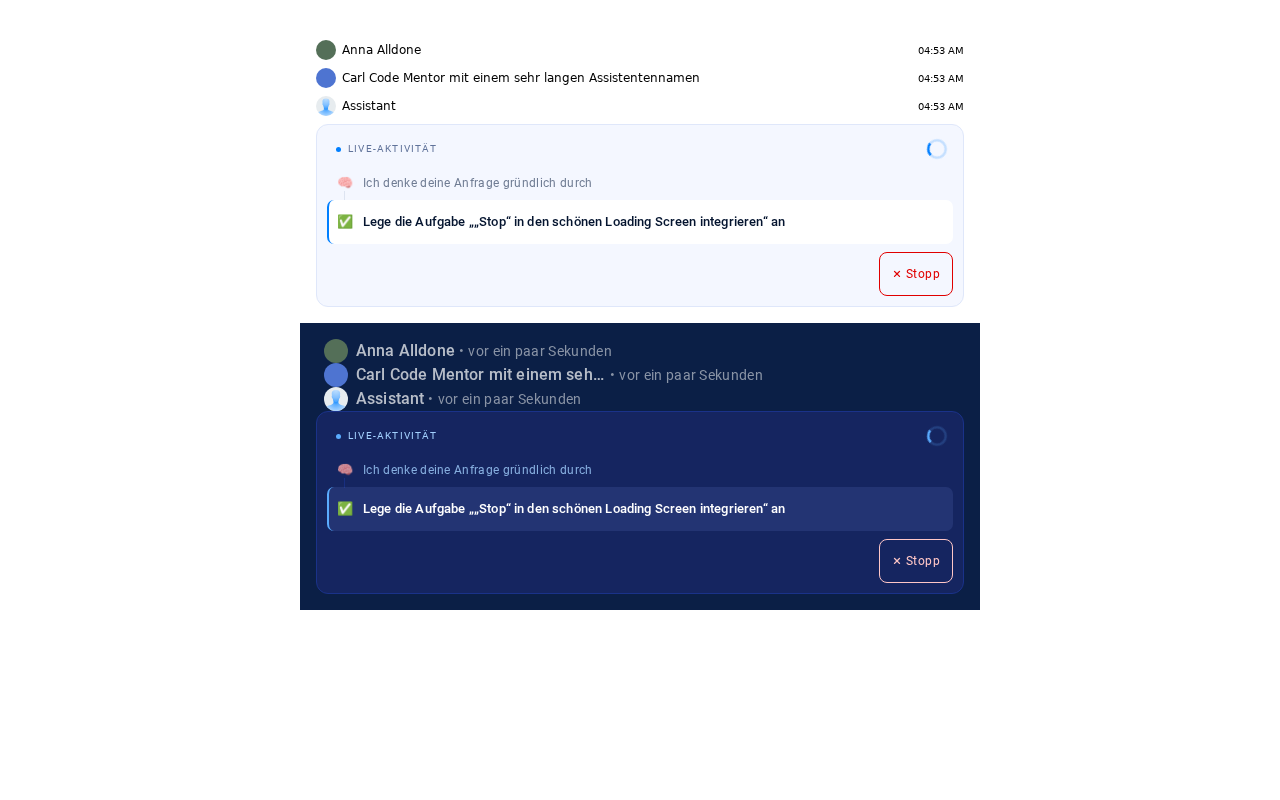
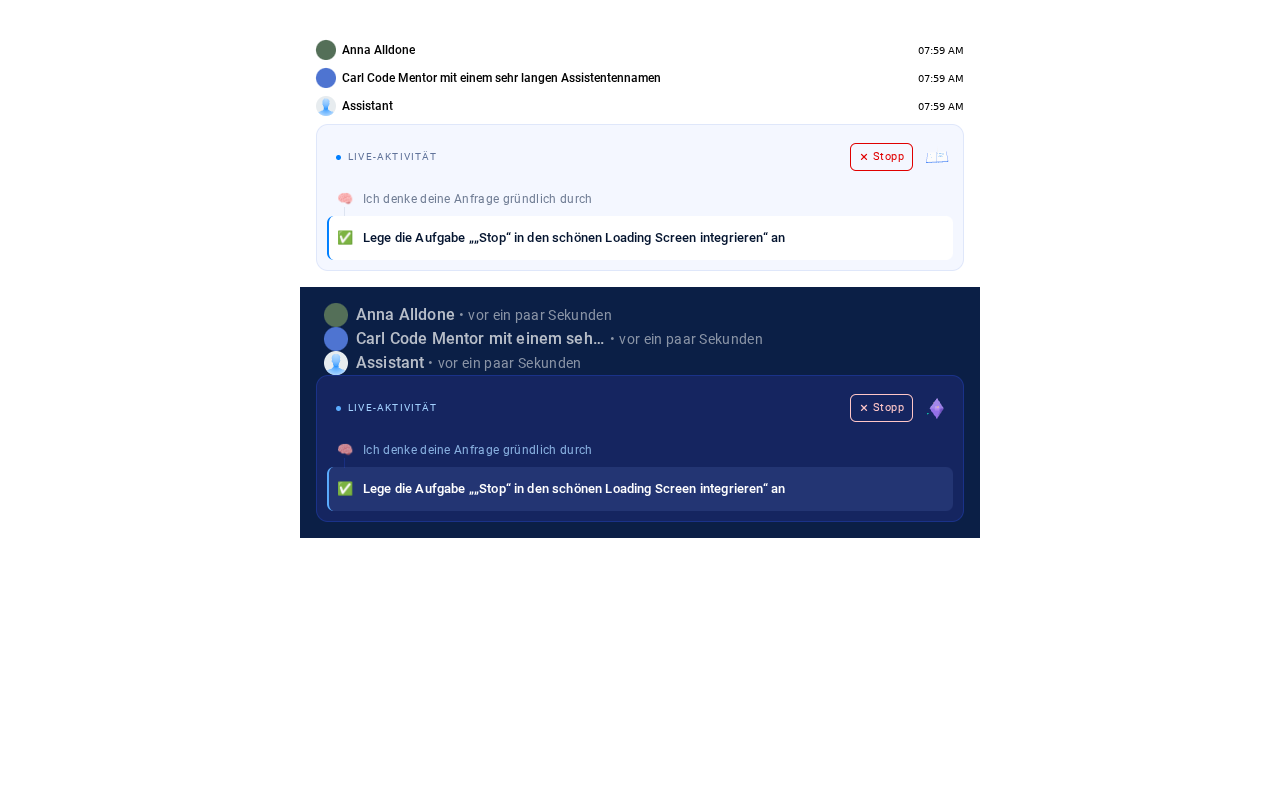
Move live activity Stop into compact header (AT-2734)

diff --git a/browser-tests/at2728/run.js b/browser-tests/at2728/run.js
@@ -6,6 +6,38 @@ const { execFileSync } = require('node:child_process')
 
 const root = path.resolve(__dirname, '../..')
 const output = path.join(__dirname, '.build')
+const reducedMotion = process.argv.includes('--animated') ? 'no-preference' : 'reduce'
+
+async function checkHeader(card, button) {
+    const header = await card.getByTestId('assistant-progress-header').boundingBox()
+    const title = await card.getByTestId('assistant-progress-title').boundingBox()
+    const actions = await card.getByTestId('assistant-progress-header-actions').boundingBox()
+    const animation = await card.getByTestId('assistant-progress-animation').boundingBox()
+    const target = await button.boundingBox()
+    const outline = await button.getByTestId('stop-assistant-run-content').boundingBox()
+    const trail = await card.getByTestId('assistant-progress-trail').boundingBox()
+    if (!(await button.isDisabled())) {
+        assert.equal(await button.evaluate(node => node.tabIndex), 0, 'Stop remains keyboard focusable')
+    }
+    assert(title.width > 100, 'German heading has visible glyphs and realistic font metrics')
+    const labelWidth = await button.evaluate(node => {
+        const range = document.createRange()
+        range.selectNodeContents(node.querySelector('[data-testid="stop-assistant-run-content"]').lastElementChild)
+        return range.getBoundingClientRect().width
+    })
+    assert(labelWidth > 20, 'Stop label is rendered with usable fonts')
+    assert(target.height >= 44 && target.width >= 44, 'touch target is at least 44px')
+    assert(outline.height === 28, 'visible Stop outline is compact')
+    assert(target.x + target.width <= animation.x, 'Stop is immediately left of the animation')
+    assert(Math.abs(target.y + target.height / 2 - animation.y - animation.height / 2) <= 1, 'controls aligned')
+    assert(target.y >= header.y && target.y + target.height <= header.y + header.height, 'Stop is in header')
+    assert(
+        title.x + title.width <= actions.x || title.y + title.height <= actions.y,
+        'title and controls do not overlap, including when the pending label wraps the header'
+    )
+    assert(header.y + header.height <= trail.y, 'header does not overlap activity steps')
+    assert.equal(await card.getByTestId('assistant-progress-header').getByRole('button').count(), 1)
+}
 
 async function main() {
     execFileSync(
@@ -49,9 +81,11 @@ async function main() {
     let browser
     try {
         const { chromium } = require(process.env.PLAYWRIGHT_MODULE || 'playwright')
-        browser = await chromium.launch({ args: ['--no-sandbox'] })
-        for (const width of [1280, 390, 320]) {
-            const page = await browser.newPage({ viewport: { width, height: 800 }, reducedMotion: 'reduce' })
+        browser = await chromium.launch({
+            args: ['--no-sandbox', '--enable-unsafe-swiftshader', '--use-angle=swiftshader'],
+        })
+        for (const width of [1280, 390, 320, 240]) {
+            const page = await browser.newPage({ viewport: { width, height: 800 }, reducedMotion })
             page.setDefaultTimeout(10000)
             const errors = []
             page.on('pageerror', error => {
@@ -61,6 +95,9 @@ async function main() {
             await page.goto(`http://127.0.0.1:${server.address().port}`)
             await page.getByTestId('surface-light').getByRole('button', { name: 'Assistent stoppen' }).waitFor()
             await page.evaluate(() => document.fonts.ready)
+            if (reducedMotion === 'no-preference') {
+                await page.getByTestId('surface-dark').getByTestId('assistant-thinking-3d').locator('canvas').waitFor()
+            }
             for (const appearance of ['light', 'dark']) {
                 const surface = page.getByTestId(`surface-${appearance}`)
                 const card = surface.getByTestId('assistant-progress')
@@ -72,6 +109,7 @@ async function main() {
                 assert(target.x >= bounds.x && target.x + target.width <= bounds.x + bounds.width, 'button fits card')
                 assert(target.y + target.height < bounds.y + bounds.height, 'button stays inside card')
                 assert.equal(await card.getByTestId('assistant-progress-trail').getByRole('button').count(), 0)
+                await checkHeader(card, button)
                 for (const id of ['anna', 'carl', 'unknown']) {
                     const author = surface.getByTestId(`author-${appearance}-${id}`)
                     const header =
@@ -112,7 +150,7 @@ async function main() {
                 }
             }
             assert(await page.evaluate(() => document.documentElement.scrollWidth <= window.innerWidth), 'no overflow')
-            await page.screenshot({ path: path.join(output, `loading-${width}.png`) })
+            await page.screenshot({ path: path.join(output, `loading-${width}-${reducedMotion}.png`), fullPage: true })
             // Test Enter in the chat and Space in the dark popup, with duplicate protection across both.
             const appearance = width === 390 ? 'dark' : 'light'
             const stop = page.getByTestId(`surface-${appearance}`).getByRole('button', { name: 'Assistent stoppen' })
@@ -130,7 +168,13 @@ async function main() {
                     .boundingBox()
                 const target = await pending.boundingBox()
                 assert(target.x >= card.x && target.x + target.width <= card.x + card.width, 'pending label fits card')
+                await checkHeader(page.getByTestId(`surface-${surface}`).getByTestId('assistant-progress'), pending)
             }
+            assert(
+                await page.evaluate(() => document.documentElement.scrollWidth <= window.innerWidth),
+                'no pending overflow'
+            )
+            await page.screenshot({ path: path.join(output, `stopping-${width}-${reducedMotion}.png`), fullPage: true })
             assert.deepEqual(await page.evaluate(() => window.__cancelRequests), [
                 {
                     projectId: 'project-1',
@@ -143,7 +187,7 @@ async function main() {
             ])
             assert.deepEqual(errors, [])
             console.log(
-                `PASS ${width}px: assistant avatars, fallback, long names, light/dark containment, keyboard stop and shared pending state`
+                `PASS ${width}px (${reducedMotion}): compact header Stop, no overlap, light/dark containment, keyboard stop and shared pending state`
             )
             await page.close()
         }

diff --git a/components/ChatsView/ChatDV/EditorView/AssistantProgress.js b/components/ChatsView/ChatDV/EditorView/AssistantProgress.js
@@ -219,17 +219,22 @@ export default function AssistantProgress({
             ]}
             testID="assistant-progress"
         >
-            <View style={localStyles.header}>
-                <View style={[localStyles.liveDot, darkAppearance && localStyles.darkLiveDot]} />
-                <Text style={[localStyles.heading, darkAppearance && localStyles.darkHeading]}>
-                    {translate('assistant_progress_live_activity')}
-                </Text>
-                <View style={localStyles.stage}>
-                    {show3D ? (
-                        <AssistantThinking3D appearance={appearance} spinnerColor={indicatorColor} size={32} />
-                    ) : (
-                        <ActivityIndicator size="small" color={indicatorColor} />
-                    )}
+            <View style={localStyles.header} testID="assistant-progress-header">
+                <View style={localStyles.title} testID="assistant-progress-title">
+                    <View style={[localStyles.liveDot, darkAppearance && localStyles.darkLiveDot]} />
+                    <Text style={[localStyles.heading, darkAppearance && localStyles.darkHeading]}>
+                        {translate('assistant_progress_live_activity')}
+                    </Text>
+                </View>
+                <View style={localStyles.headerActions} testID="assistant-progress-header-actions">
+                    {children}
+                    <View style={localStyles.stage} testID="assistant-progress-animation">
+                        {show3D ? (
+                            <AssistantThinking3D appearance={appearance} spinnerColor={indicatorColor} size={32} />
+                        ) : (
+                            <ActivityIndicator size="small" color={indicatorColor} />
+                        )}
+                    </View>
                 </View>
             </View>
             <ScrollView
@@ -284,7 +289,6 @@ export default function AssistantProgress({
                     )
                 })}
             </ScrollView>
-            {children}
         </View>
     )
 }
@@ -306,11 +310,27 @@ const localStyles = StyleSheet.create({
         borderColor: colors.Secondary200,
     },
     header: {
-        height: 28,
+        minHeight: 32,
         flexDirection: 'row',
+        flexWrap: 'wrap',
         alignItems: 'center',
+        columnGap: 8,
         paddingLeft: 9,
         marginBottom: 4,
+    },
+    title: {
+        flexDirection: 'row',
+        alignItems: 'center',
+        minHeight: 32,
+        maxWidth: '100%',
+        flexShrink: 1,
+    },
+    headerActions: {
+        flexDirection: 'row',
+        alignItems: 'center',
+        columnGap: 8,
+        marginLeft: 'auto',
+        maxWidth: '100%',
     },
     liveDot: {
         width: 5,
@@ -326,10 +346,10 @@ const localStyles = StyleSheet.create({
         letterSpacing: 1.2,
         textTransform: 'uppercase',
         color: '#60739A',
-        flex: 1,
+        flexShrink: 1,
     },
     darkHeading: { color: colors.UtilityBlue150 },
-    stage: { width: 32, height: 32, alignItems: 'center', justifyContent: 'center' },
+    stage: { width: 32, height: 32, flexShrink: 0, alignItems: 'center', justifyContent: 'center' },
     trail: { maxHeight: 132, flexGrow: 0 },
     trailContent: { paddingTop: 2 },
     stepRow: {

diff --git a/components/ChatsView/ChatDV/EditorView/StopAssistantRunButton.js b/components/ChatsView/ChatDV/EditorView/StopAssistantRunButton.js
@@ -1,5 +1,5 @@
 import React, { useEffect, useState } from 'react'
-import { StyleSheet, Text, TouchableOpacity } from 'react-native'
+import { StyleSheet, Text, TouchableOpacity, View } from 'react-native'
 import { useSelector } from 'react-redux'
 
 import global, { colors } from '../../../styles/global'
@@ -118,10 +118,25 @@ export default function StopAssistantRunButton({
             aria-busy={stopRequested}
             testID="stop-assistant-run"
         >
-            <Icon name="x-thicker" size={10} color={contentColor} />
-            <Text style={[localStyles.stopRunButtonText, { color: contentColor }]}>
-                {stopRequested ? translate('Stopping assistant') : translate('Stop')}
-            </Text>
+            <View
+                style={[
+                    localStyles.buttonContent,
+                    variant === 'card' && [localStyles.cardButtonContent, { borderColor: contentColor }],
+                ]}
+                testID="stop-assistant-run-content"
+            >
+                <Icon name="x-thicker" size={10} color={contentColor} />
+                <Text
+                    style={[
+                        localStyles.stopRunButtonText,
+                        variant === 'card' && localStyles.cardButtonText,
+                        { color: contentColor },
+                    ]}
+                    numberOfLines={1}
+                >
+                    {stopRequested ? translate('Stopping assistant') : translate('Stop')}
+                </Text>
+            </View>
         </TouchableOpacity>
     )
 }
@@ -142,13 +157,31 @@ const localStyles = StyleSheet.create({
         borderColor: colors.UtilityRed125,
     },
     cardButton: {
-        alignSelf: 'flex-end',
+        alignSelf: 'center',
         maxWidth: '100%',
         minHeight: 44,
         minWidth: 44,
-        paddingHorizontal: 12,
-        paddingVertical: 6,
-        borderRadius: 8,
+        marginTop: 0,
+        paddingHorizontal: 0,
+        borderWidth: 0,
+        flexShrink: 1,
+        justifyContent: 'center',
+    },
+    buttonContent: {
+        flexDirection: 'row',
+        alignItems: 'center',
+        flexShrink: 1,
+    },
+    // Keep the header control visually small without shrinking its 44px touch target.
+    cardButtonContent: {
+        minHeight: 28,
+        paddingHorizontal: 8,
+        borderWidth: 1,
+        borderRadius: 6,
+    },
+    cardButtonText: {
+        fontSize: 11,
+        lineHeight: 16,
     },
     stopRunButtonDisabled: {
         opacity: 0.6,

diff --git a/components/SidebarMenu/LoggedUserSidebar/LoggedUserSidebarBody.js b/components/SidebarMenu/LoggedUserSidebar/LoggedUserSidebarBody.js
@@ -15,7 +15,6 @@ import ArchivedProjects from '../ArchivedProjects'
 import TemplateProjects from '../TemplateProjects'
 import SettingsItem from '../SettingsItem'
 import AdminItem from '../AdminItem'
-import DefaultAssistantButton from '../DefaultAssistantButton'
 
 export default function LoggedUserSidebarBody({ navigation, expanded, scrollView }) {
     const administratorUserId = useSelector(state => state.administratorUser.uid)
@@ -38,7 +37,6 @@ export default function LoggedUserSidebarBody({ navigation, expanded, scrollView
             showsVerticalScrollIndicator={false}
             indicatorStyle={[theme.scroll, !expanded && { opacity: 0 }]}
         >
-            <DefaultAssistantButton />
             <AllProjects navigation={navigation} />
             <ActiveProjectsList navigation={navigation} />
             <AddProject scrollToBottom={scrollToBottom} />

diff --git a/components/ChatsView/ChatDV/EditorView/StopAssistantRunButton.test.js b/components/ChatsView/ChatDV/EditorView/StopAssistantRunButton.test.js
@@ -113,7 +113,7 @@ describe('StopAssistantRunButton', () => {
     test.each(['light', 'dark'])('provides a touch target that fits the %s activity card', appearance => {
         const tree = renderButton({ variant: 'card', appearance })
         expect(StyleSheet.flatten(stopButton(tree).props.style)).toEqual(
-            expect.objectContaining({ minHeight: 44, minWidth: 44, maxWidth: '100%', alignSelf: 'flex-end' })
+            expect.objectContaining({ minHeight: 44, minWidth: 44, maxWidth: '100%', marginTop: 0 })
         )
         act(() => tree.unmount())
     })

diff --git a/components/Anna/AnnaShell.js b/components/Anna/AnnaShell.js
@@ -534,7 +534,7 @@ export default function AnnaShell({ children, routeId }) {
                             title={translate('Close chat — Alldone only')}
                             onClick={closeChat}
                         >
-                            <Icon name="x" size={18} color="currentColor" />
+                            <Icon name="sidebar" size={18} color="currentColor" />
                         </button>
                         <button
                             type="button"

diff --git a/components/SidebarMenu/AllProjects/AllProjects.js b/components/SidebarMenu/AllProjects/AllProjects.js
@@ -35,7 +35,7 @@ const localStyles = StyleSheet.create({
     allProjectsSection: {
         flex: 1,
         marginBottom: 12,
-        marginTop: 8,
+        marginTop: 32,
     },
     activeSection: {
         borderBottomWidth: 2,

diff --git a/browser-tests/at2728/README.md b/browser-tests/at2728/README.md
@@ -1,9 +1,10 @@
-# AT-2728 — Stop inside the live-activity card
+# AT-2728 / AT-2734 — Stop in the live-activity header
 
 Run with Node 22, root and `web-bundler` dependencies, and Playwright Chromium:
 
 ```sh
 node browser-tests/at2728/run.js
+node browser-tests/at2728/run.js --animated
 ```
 
 Set `PLAYWRIGHT_MODULE` and `PLAYWRIGHT_BROWSERS_PATH` for a separate Playwright
@@ -12,11 +13,14 @@ installation. Chromium also needs its Linux system libraries.
 The fixture renders the real Anna message header, popup comment header, activity card
 and Stop button with German translations and application fonts. Author data and the
 cancellation backend are replaced, along with unrelated tag/media renderers; it never
-connects to Firebase or cancels a real run. It checks light/dark cards at 1280px, 390px and
-320px, avatar placement and alignment, different assistants, long names, missing-photo
+connects to Firebase or cancels a real run. It checks light/dark cards at 1280px, 390px,
+320px and 240px, avatar placement and alignment, different assistants, long names, missing-photo
 fallbacks, button containment, 44px touch targets, keyboard activation, and one shared
 pending state/request across both surfaces. Screenshots go to the ignored `.build/`
-directory. Reduced motion keeps the spinner; this fixture does not validate WebGL.
+directory. Both reduced motion (spinner) and normal motion (real WebGL canvas) are checked.
+The compact 28px button outline retains a 44px touch target, sits immediately left of the
+animation in the header, and stays aligned in the pending state. Narrow headers wrap the
+controls below the title when needed; title, controls and activity steps never overlap.
 
 The colocated Jest suites also verify placement in the real chat and popup containers,
 unchanged cancellation context, retry on errors, requester permissions, stale runs,
@@ -26,4 +30,4 @@ while sending, errors, offline feedback and VM interaction text remain visible. 
 browser fixture checks the headers and card; it does not boot the full authenticated app.
 
 Verified fixture screenshots: [mobile](screenshots/mobile.png),
-[desktop](screenshots/desktop.png).
+[desktop](screenshots/desktop.png), [mobile while stopping](screenshots/mobile-stopping.png).
